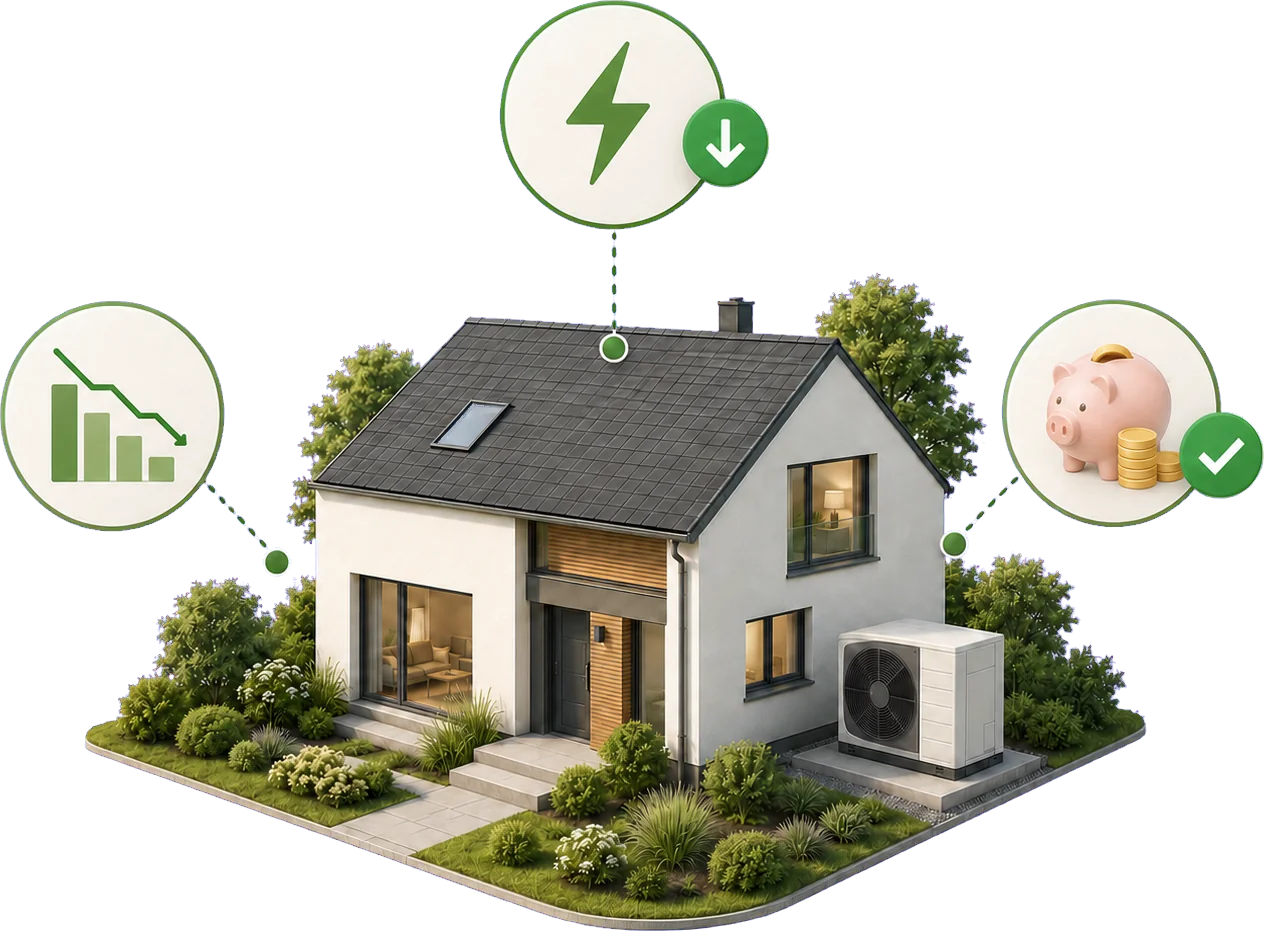
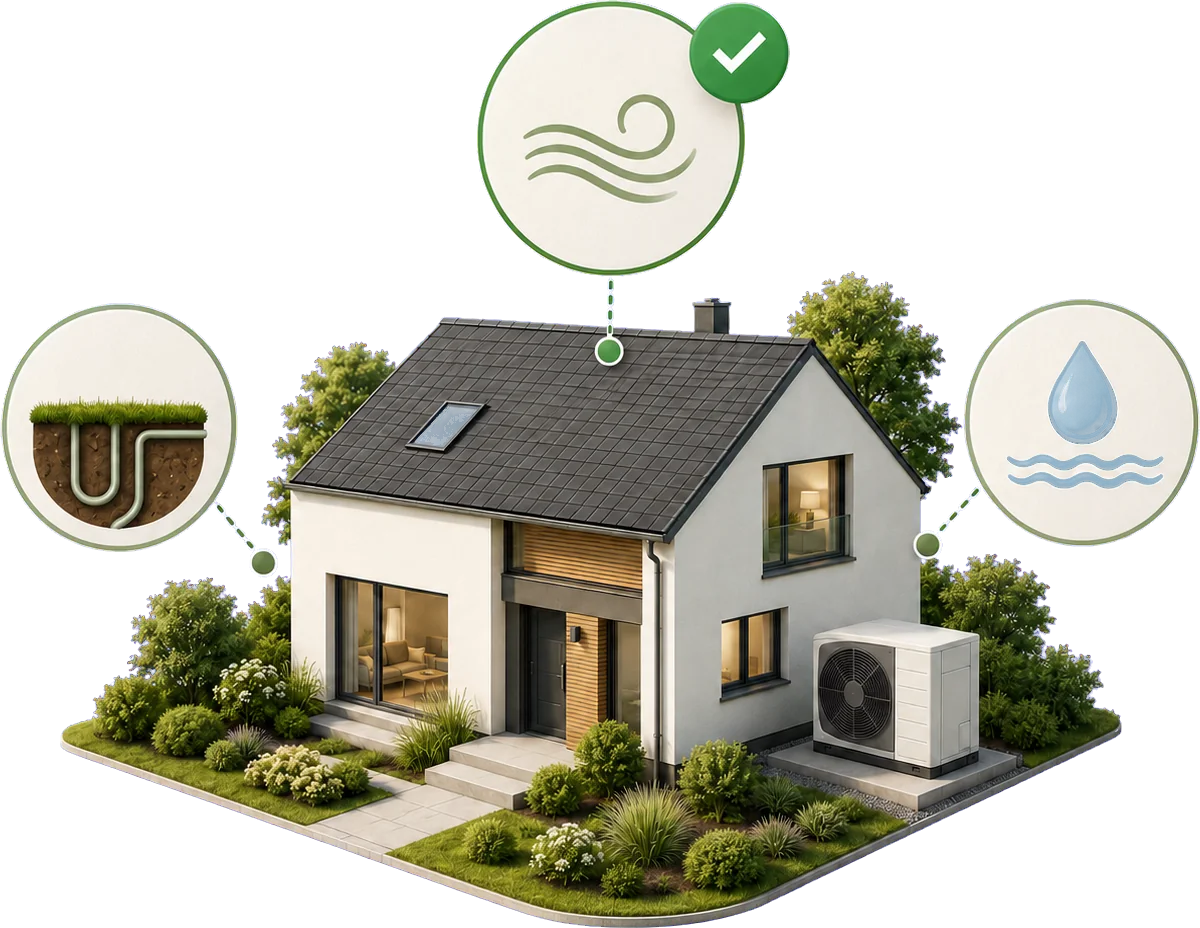
Swap article images: naklady.webp to Náklady na provoz, vyber.webp to Jak vybrat

Changed region(s): [[0.0, 0.0, 1.0, 1.0]]

diff --git a/lib/content.ts b/lib/content.ts
@@ -225,7 +225,7 @@ export const articles: Article[] = [
     slug: "naklady-na-provoz",
     title: "Náklady na provoz",
     text: "Přehled nákladů a úspor v praxi – kolik můžete tepelným čerpadlem skutečně ušetřit.",
-    image: "/realizace/milinov.jpg",
+    image: "/blog/naklady-na-provoz.webp",
     intro:
       "Tepelné čerpadlo je dnes nejúspornějším způsobem vytápění rodinného domu. Podívejme se, z čeho se provozní náklady skládají a kolik reálně ušetříte.",
     sections: [